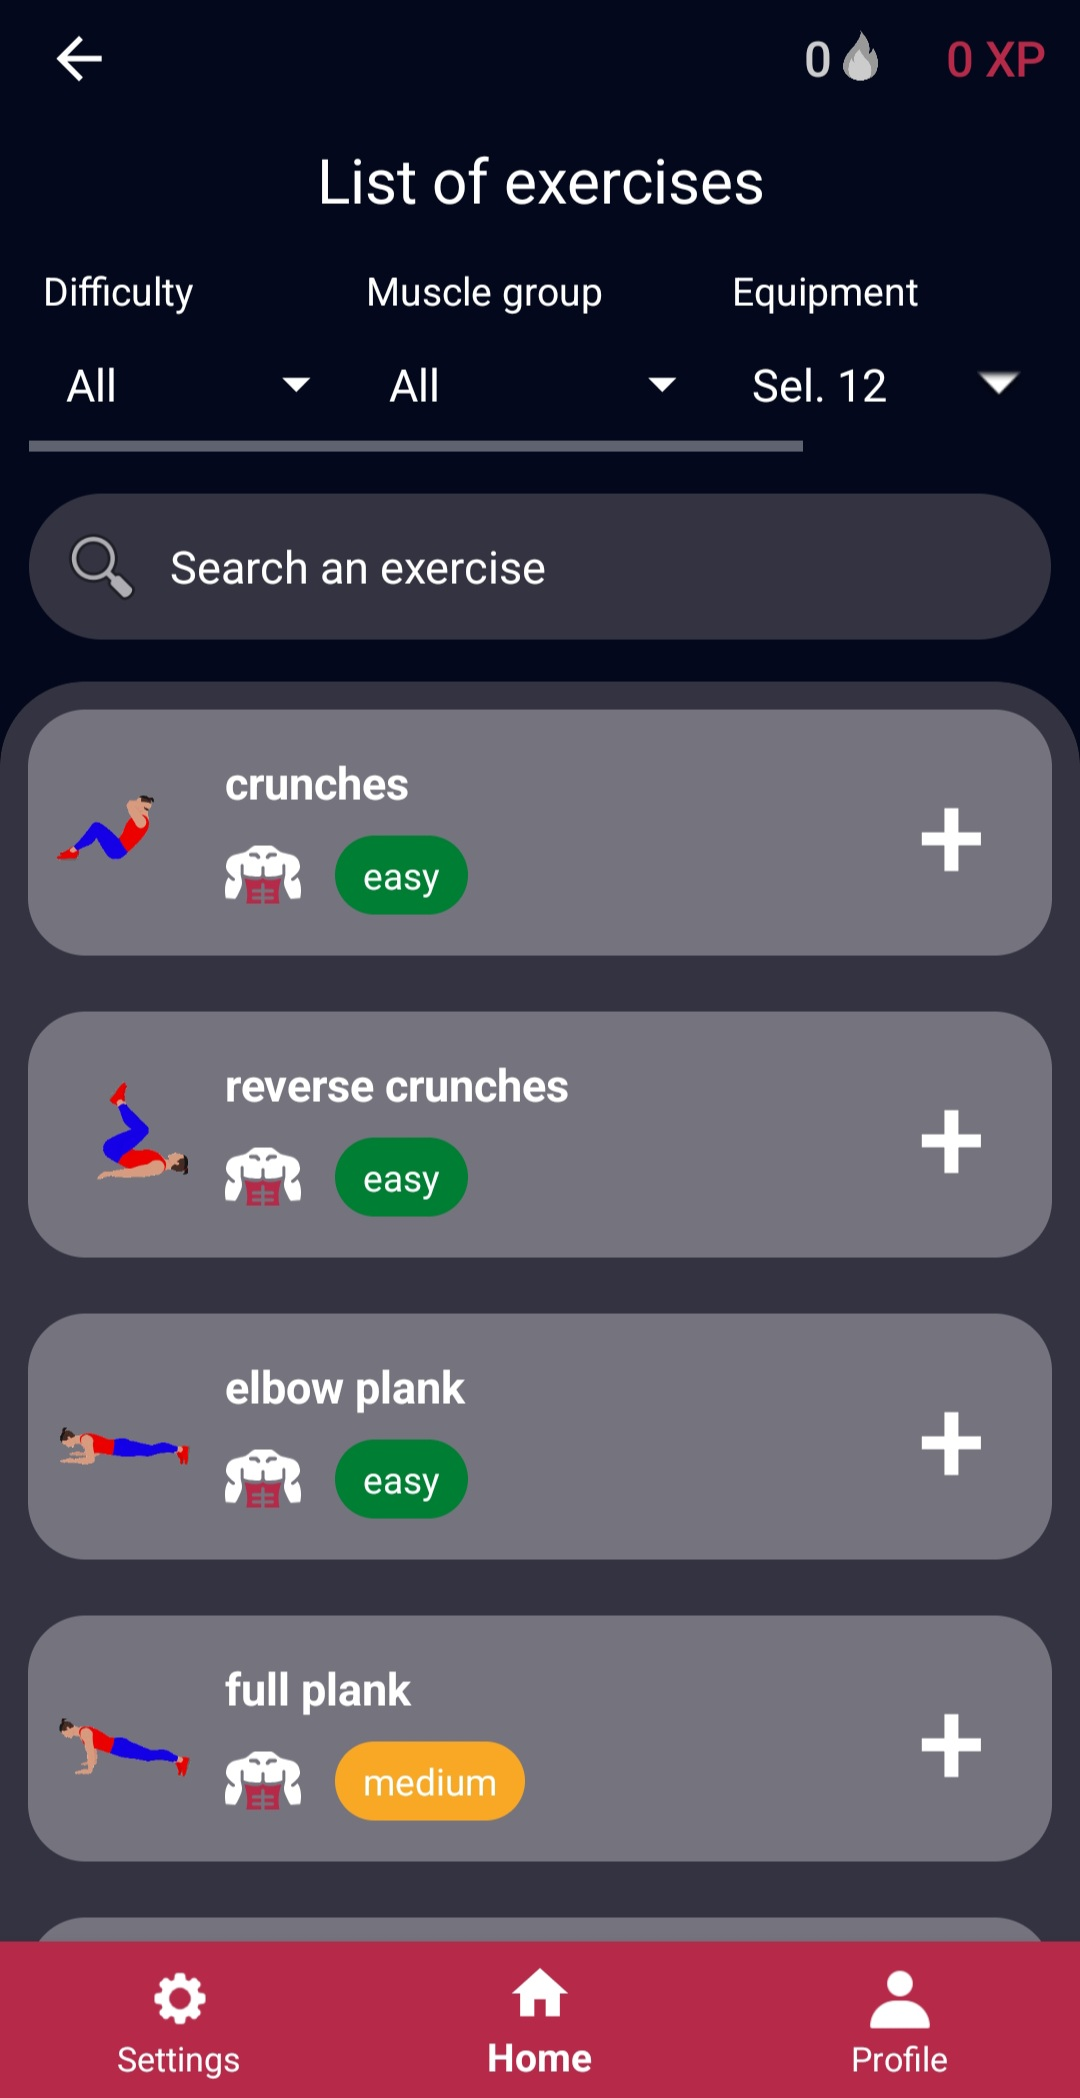
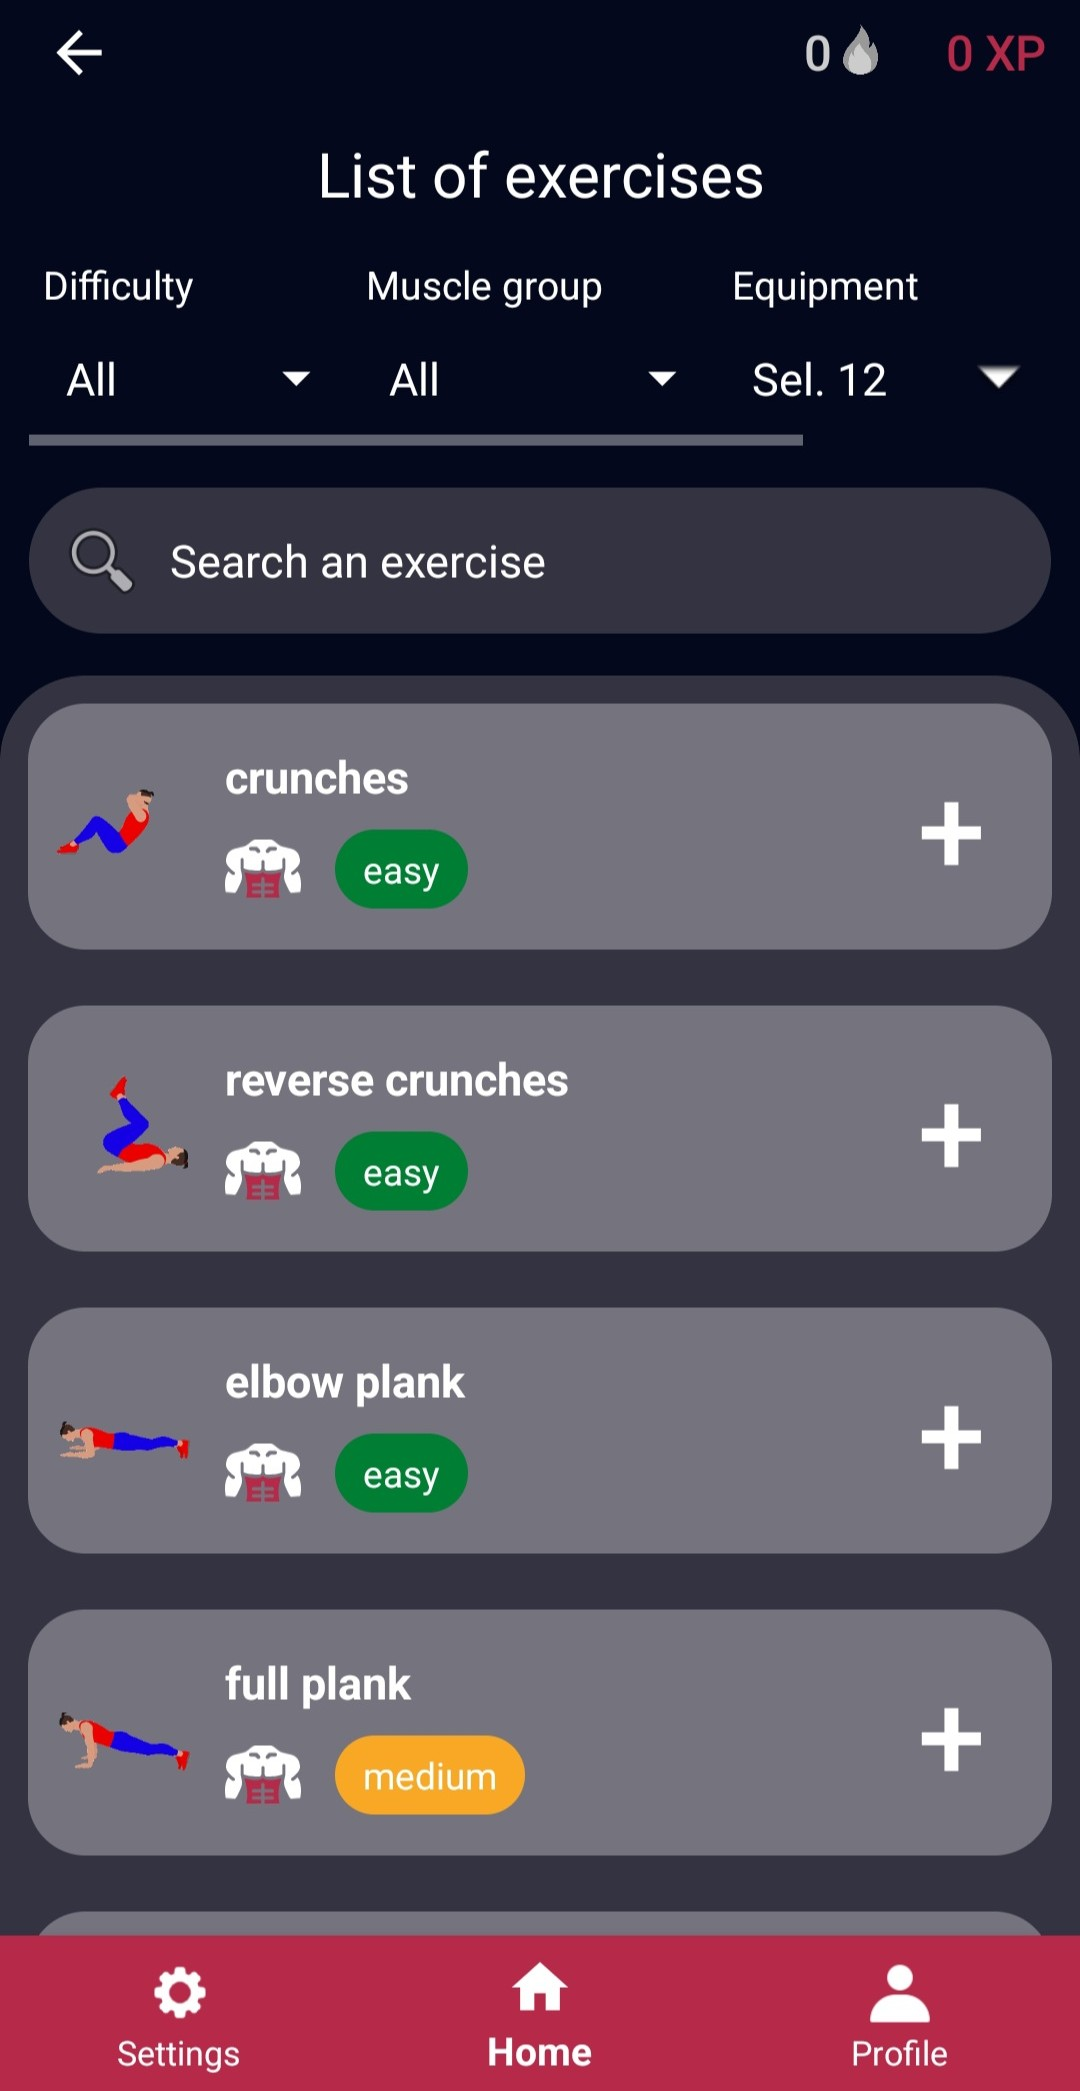
Update muscleUp

diff --git a/muscleup.html b/muscleup.html
@@ -287,11 +287,6 @@
                     <h2>About The App</h2>
                     <p>Muscle Up is a fitness app that uses AI to analyse workouts in real time through a camera to count reps for you. It combines the best tools from leading platforms, including <b>pre-designed workout plans</b> that adjust to your schedule, performance statistics, a user <b>leaderboard</b>, and a variety of other unique elements. Whether you're a beginner or an advanced athlete, Muscle Up brings the most powerful tools together in one intuitive app, helping you train smarter, stay motivated, and achieve results faster.</p>
                 </div>
-
-                <div class="about-content">
-                    <h2>Free Premium Features</h2>
-                    <p>Until Muscle Up launches on the Play Store, all premium features are completely free!</p>
-                </div>
             </div>
 
             <div class="grid">
@@ -303,7 +298,7 @@
                 <div class="download-box">
                     <h2>Safe & Verified</h2>
                     <img src="files/muscle_up/muscle_up_overview_avast.jpg" alt="Avast safety" style="width: 40%; margin: 0px;">
-                    <p style="margin-top: 10px;">This app is safe according to Avast Mobile Security.</p>
+                    <p style="margin-top: 18px;">This app is safe according to Avast Mobile Security.</p>
                 </div>
             </div>
 